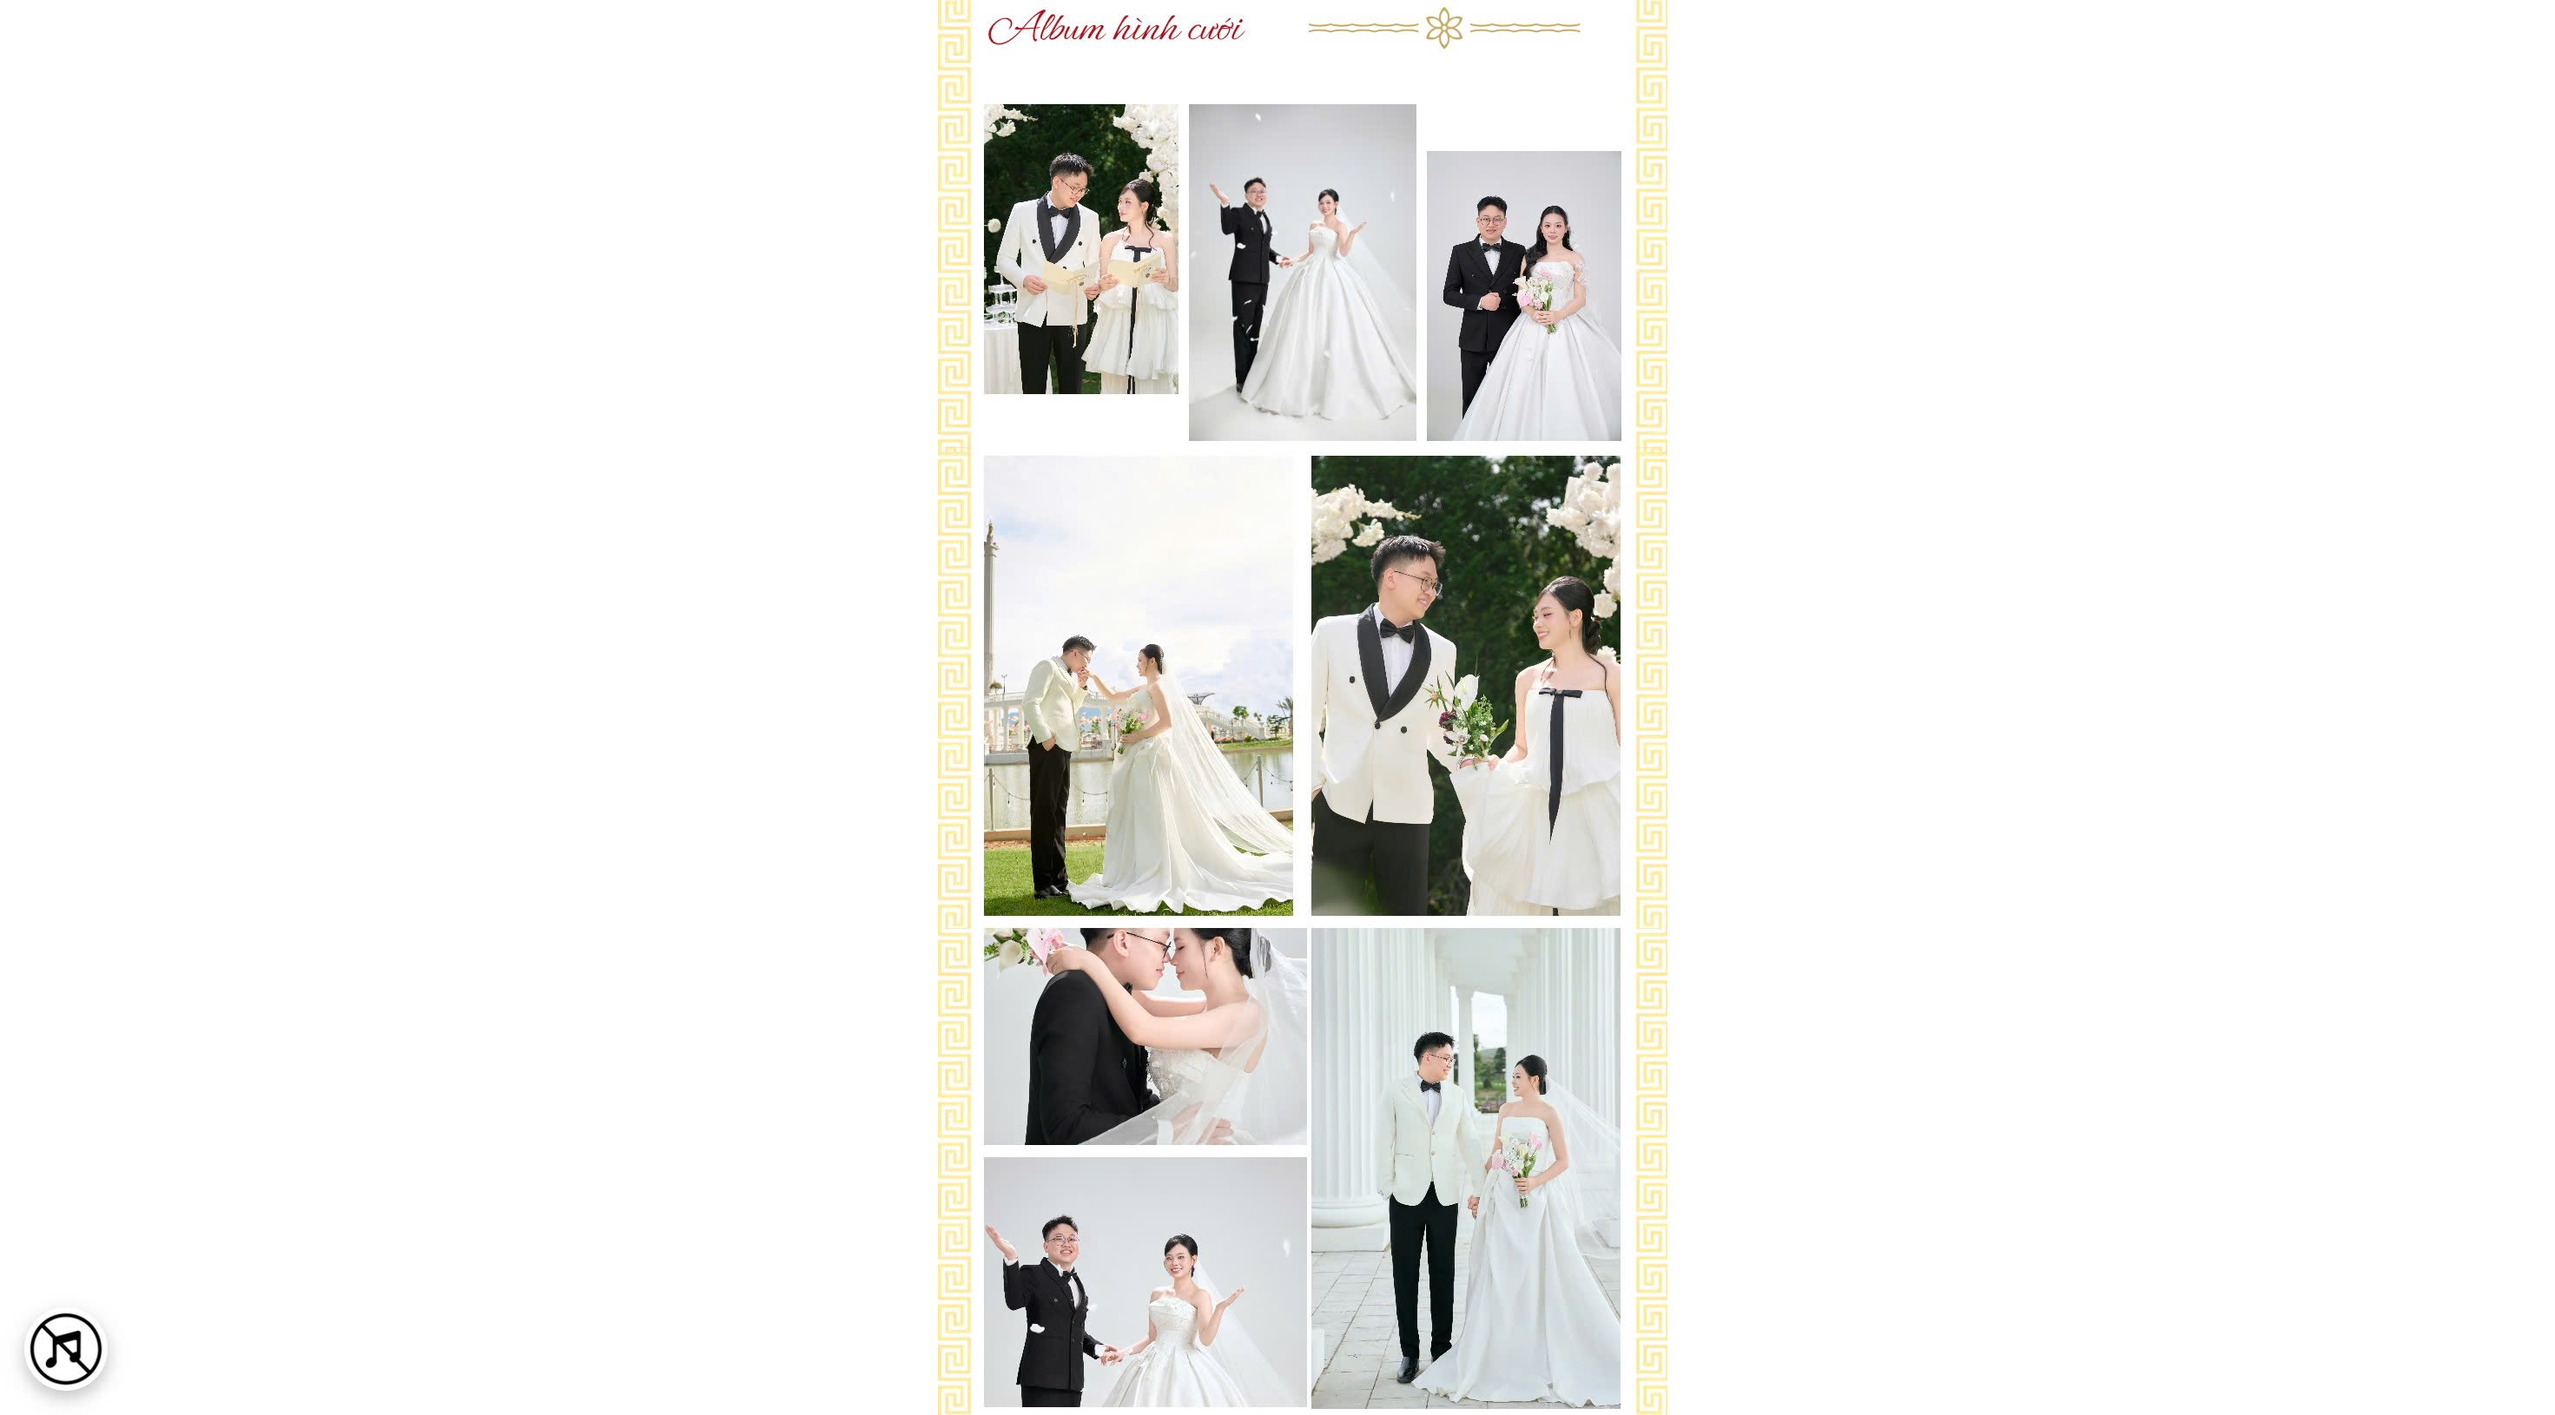
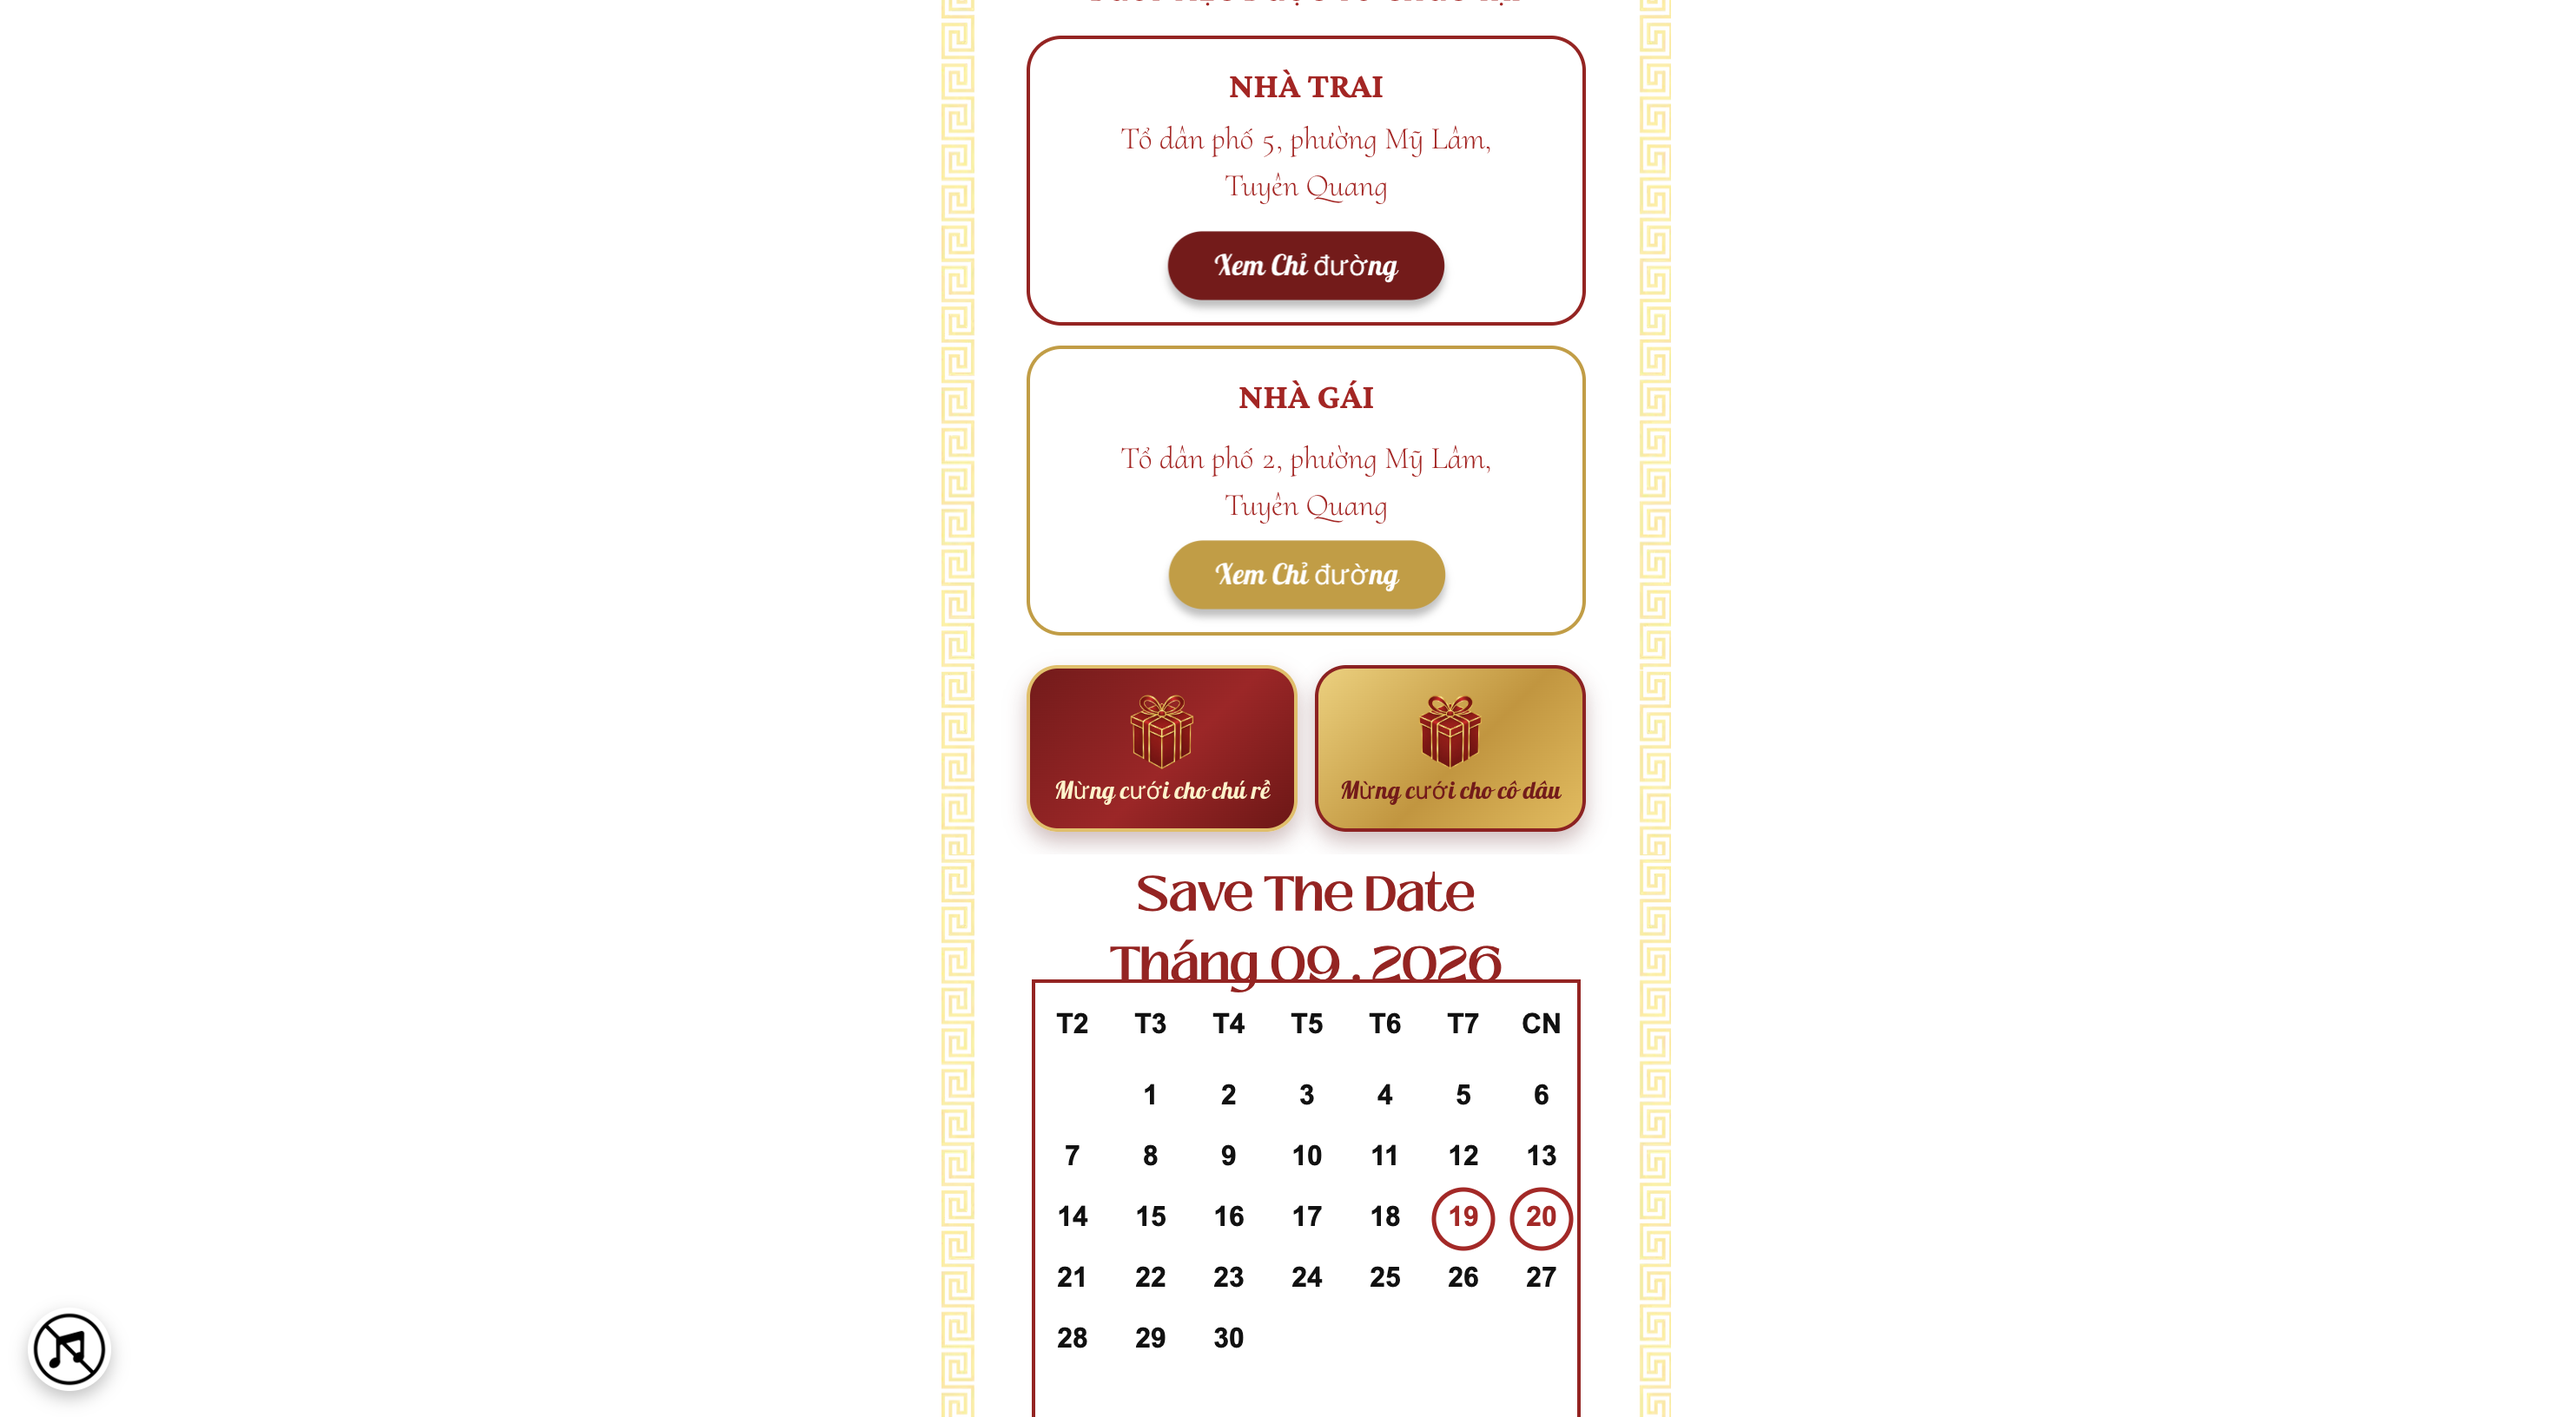
updates

Changed region(s): [[0.3402, 0.0, 0.6496, 1.0], [0.0, 0.9202, 0.0619, 0.9816]]

diff --git a/index.html b/index.html
@@ -117,12 +117,48 @@
       }
 
       .card {
+        position: relative;
         min-width: 0;
         overflow: hidden;
         border: 1px solid var(--line);
         border-radius: 18px;
         background: var(--card);
         box-shadow: 8px 10px 14px rgb(0 0 0 / 28%);
+      }
+
+      .card-badges {
+        position: absolute;
+        z-index: 6;
+        top: 18px;
+        left: 18px;
+        display: flex;
+        flex-wrap: wrap;
+        gap: 7px;
+        pointer-events: none;
+      }
+
+      .card-badge {
+        display: inline-flex;
+        align-items: center;
+        min-height: 30px;
+        padding: 5px 11px;
+        border: 1px solid rgb(255 255 255 / 78%);
+        border-radius: 999px;
+        color: #fff;
+        font-size: 12px;
+        font-weight: 800;
+        letter-spacing: .08em;
+        line-height: 1;
+        text-transform: uppercase;
+        box-shadow: 0 4px 9px rgb(0 0 0 / 24%);
+      }
+
+      .card-badge--best {
+        background: linear-gradient(135deg, #e7bd55, #9c5b0b);
+      }
+
+      .card-badge--hot {
+        background: linear-gradient(135deg, #ed4356, #9a0e2b);
       }
 
       .preview {
@@ -265,6 +301,9 @@
 
       <section class="cards" aria-label="Các mẫu thiệp cưới">
         <article class="card">
+          <div class="card-badges" aria-label="Mẫu nổi bật">
+            <span class="card-badge card-badge--hot"><span aria-hidden="true">🔥</span> Hot</span>
+          </div>
           <div class="preview">
             <img class="desktop-preview" src="assets/images/image1.png" alt="Mẫu thiệp Vintage">
             <img class="phone-preview" src="assets/images/image2.jpg" alt="Mẫu thiệp Vintage trên điện thoại">
@@ -289,6 +328,9 @@
         </article>
 
         <article class="card">
+          <div class="card-badges" aria-label="Mẫu nổi bật">
+            <span class="card-badge card-badge--hot"><span aria-hidden="true">🔥</span> Hot</span>
+          </div>
           <div class="preview">
             <img class="desktop-preview" src="assets/images/image5.png" alt="Mẫu thiệp Sweet">
             <img class="phone-preview" src="assets/images/image6.jpg" alt="Mẫu thiệp Sweet trên điện thoại">
@@ -325,6 +367,9 @@
         </article>
 
         <article class="card">
+          <div class="card-badges" aria-label="Mẫu nổi bật">
+            <span class="card-badge card-badge--hot"><span aria-hidden="true">🔥</span> Hot</span>
+          </div>
           <div class="preview">
             <img class="desktop-preview" src="assets/images/image11.png" alt="Mẫu thiệp Romance">
             <img class="phone-preview" src="assets/images/image12.jpg" alt="Mẫu thiệp Romance trên điện thoại">
